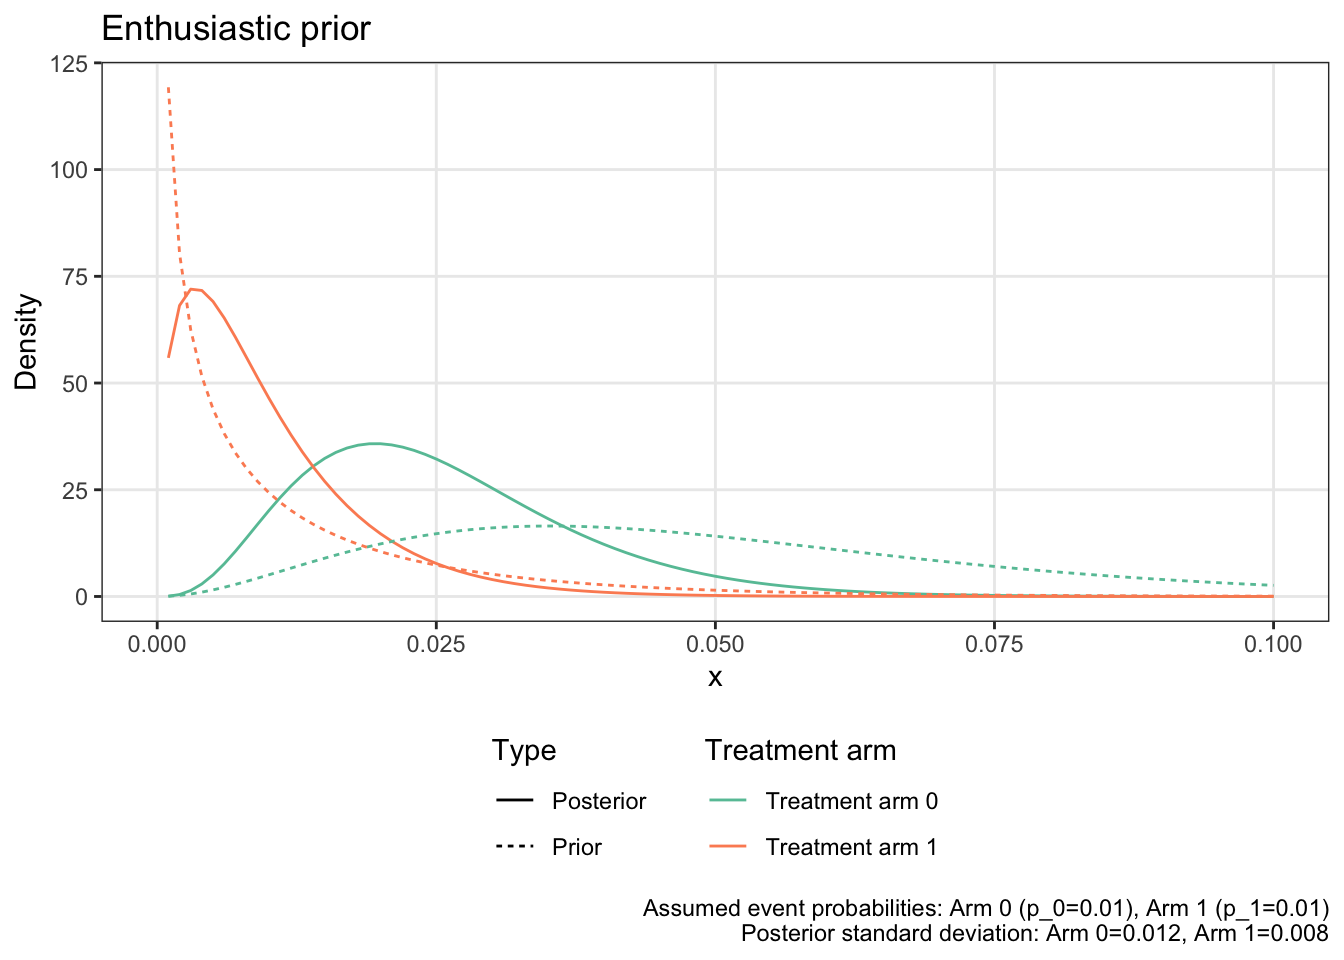
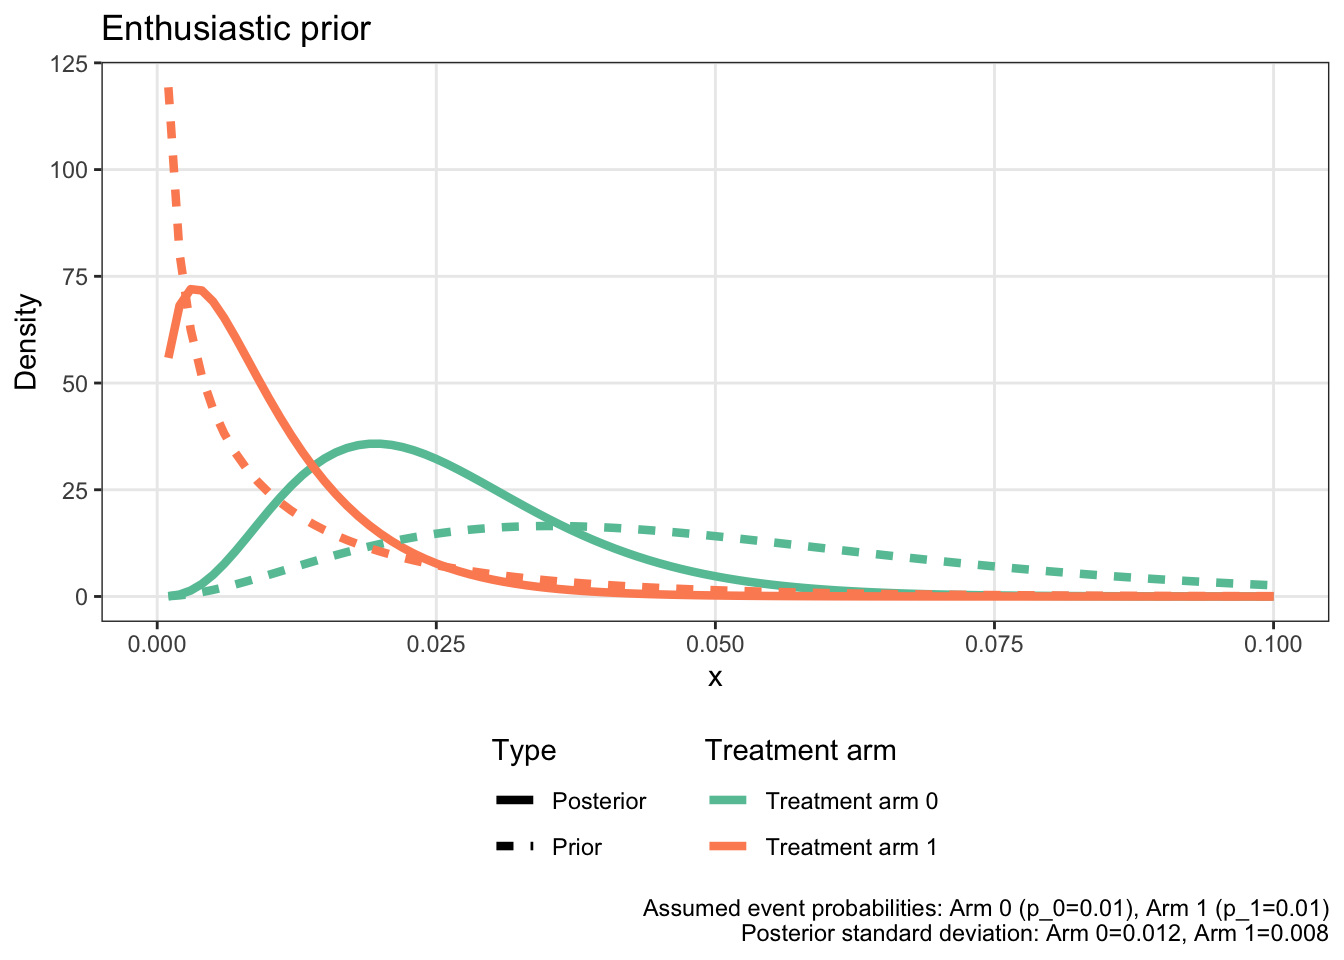
Changes

diff --git a/docs/01-NI.html b/docs/01-NI.html
@@ -1647,7 +1647,7 @@ p_i|\pi_i \sim Beta\left(a_i+\sum_{k\leq n_i}Y_{i,k},b_i+n_i-\sum_{k\leq n_i}Y_{
 <span id="cb30-24"><a href="#cb30-24" aria-hidden="true" tabindex="-1"></a>    T, <span class="st">"Treatment arm 0"</span>, <span class="st">"Treatment arm 1"</span>)</span>
 <span id="cb30-25"><a href="#cb30-25" aria-hidden="true" tabindex="-1"></a></span>
 <span id="cb30-26"><a href="#cb30-26" aria-hidden="true" tabindex="-1"></a><span class="fu">ggplot</span>(prior_plot_long, <span class="fu">aes</span>(<span class="at">x =</span> x, <span class="at">y =</span> value, <span class="at">linetype =</span> type, <span class="at">colour =</span> group)) <span class="sc">+</span></span>
-<span id="cb30-27"><a href="#cb30-27" aria-hidden="true" tabindex="-1"></a>    <span class="fu">geom_line</span>() <span class="sc">+</span> <span class="fu">theme_bw</span>() <span class="sc">+</span> <span class="fu">theme</span>(<span class="at">panel.grid.minor =</span> <span class="fu">element_blank</span>(),</span>
+<span id="cb30-27"><a href="#cb30-27" aria-hidden="true" tabindex="-1"></a>    <span class="fu">geom_line</span>(<span class="at">linewidth =</span> <span class="fl">1.5</span>) <span class="sc">+</span> <span class="fu">theme_bw</span>() <span class="sc">+</span> <span class="fu">theme</span>(<span class="at">panel.grid.minor =</span> <span class="fu">element_blank</span>(),</span>
 <span id="cb30-28"><a href="#cb30-28" aria-hidden="true" tabindex="-1"></a>    <span class="at">legend.position =</span> <span class="st">"bottom"</span>, <span class="at">legend.direction =</span> <span class="st">"vertical"</span>) <span class="sc">+</span> <span class="fu">scale_x_continuous</span>(<span class="at">limits =</span> <span class="fu">c</span>(<span class="dv">0</span>,</span>
 <span id="cb30-29"><a href="#cb30-29" aria-hidden="true" tabindex="-1"></a>    <span class="fl">0.1</span>)) <span class="sc">+</span> <span class="fu">ylab</span>(<span class="st">"Density"</span>) <span class="sc">+</span> <span class="fu">labs</span>(<span class="at">caption =</span> <span class="fu">str_glue</span>(<span class="st">"Assumed event probabilities: Arm 0 (p_0="</span>,</span>
 <span id="cb30-30"><a href="#cb30-30" aria-hidden="true" tabindex="-1"></a>    p_0, <span class="st">"), "</span>, <span class="st">"Arm 1 (p_1="</span>, p_1, <span class="st">")</span><span class="sc">\n</span><span class="st">Posterior standard deviation: Arm 0="</span>,</span>
@@ -1693,7 +1693,7 @@ p_i|\pi_i \sim Beta\left(a_i+\sum_{k\leq n_i}Y_{i,k},b_i+n_i-\sum_{k\leq n_i}Y_{
 <span id="cb31-24"><a href="#cb31-24" aria-hidden="true" tabindex="-1"></a>    T, <span class="st">"Treatment arm 0"</span>, <span class="st">"Treatment arm 1"</span>)</span>
 <span id="cb31-25"><a href="#cb31-25" aria-hidden="true" tabindex="-1"></a></span>
 <span id="cb31-26"><a href="#cb31-26" aria-hidden="true" tabindex="-1"></a><span class="fu">ggplot</span>(prior_plot_long, <span class="fu">aes</span>(<span class="at">x =</span> x, <span class="at">y =</span> value, <span class="at">linetype =</span> type, <span class="at">colour =</span> group)) <span class="sc">+</span></span>
-<span id="cb31-27"><a href="#cb31-27" aria-hidden="true" tabindex="-1"></a>    <span class="fu">geom_line</span>() <span class="sc">+</span> <span class="fu">theme_bw</span>() <span class="sc">+</span> <span class="fu">theme</span>(<span class="at">panel.grid.minor =</span> <span class="fu">element_blank</span>(),</span>
+<span id="cb31-27"><a href="#cb31-27" aria-hidden="true" tabindex="-1"></a>    <span class="fu">geom_line</span>(<span class="at">linewidth =</span> <span class="fl">1.5</span>) <span class="sc">+</span> <span class="fu">theme_bw</span>() <span class="sc">+</span> <span class="fu">theme</span>(<span class="at">panel.grid.minor =</span> <span class="fu">element_blank</span>(),</span>
 <span id="cb31-28"><a href="#cb31-28" aria-hidden="true" tabindex="-1"></a>    <span class="at">legend.position =</span> <span class="st">"bottom"</span>, <span class="at">legend.direction =</span> <span class="st">"vertical"</span>) <span class="sc">+</span> <span class="fu">scale_x_continuous</span>(<span class="at">limits =</span> <span class="fu">c</span>(<span class="dv">0</span>,</span>
 <span id="cb31-29"><a href="#cb31-29" aria-hidden="true" tabindex="-1"></a>    <span class="fl">0.1</span>)) <span class="sc">+</span> <span class="fu">ylab</span>(<span class="st">"Density"</span>) <span class="sc">+</span> <span class="fu">labs</span>(<span class="at">caption =</span> <span class="fu">str_glue</span>(<span class="st">"Expected event probabilities: Arm 0 (p_0="</span>,</span>
 <span id="cb31-30"><a href="#cb31-30" aria-hidden="true" tabindex="-1"></a>    p_0, <span class="st">"), "</span>, <span class="st">"Arm 1 (p_1="</span>, p_1, <span class="st">")</span><span class="sc">\n</span><span class="st">Posterior standard deviation: Arm 0="</span>,</span>
@@ -1739,7 +1739,7 @@ p_i|\pi_i \sim Beta\left(a_i+\sum_{k\leq n_i}Y_{i,k},b_i+n_i-\sum_{k\leq n_i}Y_{
 <span id="cb32-24"><a href="#cb32-24" aria-hidden="true" tabindex="-1"></a>    T, <span class="st">"Treatment arm 0"</span>, <span class="st">"Treatment arm 1"</span>)</span>
 <span id="cb32-25"><a href="#cb32-25" aria-hidden="true" tabindex="-1"></a></span>
 <span id="cb32-26"><a href="#cb32-26" aria-hidden="true" tabindex="-1"></a><span class="fu">ggplot</span>(prior_plot_long, <span class="fu">aes</span>(<span class="at">x =</span> x, <span class="at">y =</span> value, <span class="at">linetype =</span> type, <span class="at">colour =</span> group)) <span class="sc">+</span></span>
-<span id="cb32-27"><a href="#cb32-27" aria-hidden="true" tabindex="-1"></a>    <span class="fu">geom_line</span>() <span class="sc">+</span> <span class="fu">theme_bw</span>() <span class="sc">+</span> <span class="fu">theme</span>(<span class="at">panel.grid.minor =</span> <span class="fu">element_blank</span>(),</span>
+<span id="cb32-27"><a href="#cb32-27" aria-hidden="true" tabindex="-1"></a>    <span class="fu">geom_line</span>(<span class="at">linewidth =</span> <span class="fl">1.5</span>) <span class="sc">+</span> <span class="fu">theme_bw</span>() <span class="sc">+</span> <span class="fu">theme</span>(<span class="at">panel.grid.minor =</span> <span class="fu">element_blank</span>(),</span>
 <span id="cb32-28"><a href="#cb32-28" aria-hidden="true" tabindex="-1"></a>    <span class="at">legend.position =</span> <span class="st">"bottom"</span>, <span class="at">legend.direction =</span> <span class="st">"vertical"</span>) <span class="sc">+</span> <span class="fu">scale_x_continuous</span>(<span class="at">limits =</span> <span class="fu">c</span>(<span class="dv">0</span>,</span>
 <span id="cb32-29"><a href="#cb32-29" aria-hidden="true" tabindex="-1"></a>    <span class="fl">0.1</span>)) <span class="sc">+</span> <span class="fu">ylab</span>(<span class="st">"Density"</span>) <span class="sc">+</span> <span class="fu">labs</span>(<span class="at">caption =</span> <span class="fu">str_glue</span>(<span class="st">"Assumed event probabilities: Arm 0 (p_0="</span>,</span>
 <span id="cb32-30"><a href="#cb32-30" aria-hidden="true" tabindex="-1"></a>    p_0, <span class="st">"), "</span>, <span class="st">"Arm 1 (p_1="</span>, p_1, <span class="st">")</span><span class="sc">\n</span><span class="st">Posterior standard deviation: Arm 0="</span>,</span>
@@ -1783,7 +1783,7 @@ p_i|\pi_i \sim Beta\left(a_i+\sum_{k\leq n_i}Y_{i,k},b_i+n_i-\sum_{k\leq n_i}Y_{
 <span id="cb33-22"><a href="#cb33-22" aria-hidden="true" tabindex="-1"></a>    T, <span class="st">"Treatment arm 0"</span>, <span class="st">"Treatment arm 1"</span>)</span>
 <span id="cb33-23"><a href="#cb33-23" aria-hidden="true" tabindex="-1"></a></span>
 <span id="cb33-24"><a href="#cb33-24" aria-hidden="true" tabindex="-1"></a><span class="fu">ggplot</span>(prior_plot_long, <span class="fu">aes</span>(<span class="at">x =</span> x, <span class="at">y =</span> value, <span class="at">linetype =</span> type, <span class="at">colour =</span> group)) <span class="sc">+</span></span>
-<span id="cb33-25"><a href="#cb33-25" aria-hidden="true" tabindex="-1"></a>    <span class="fu">geom_line</span>() <span class="sc">+</span> <span class="fu">theme_bw</span>() <span class="sc">+</span> <span class="fu">theme</span>(<span class="at">panel.grid.minor =</span> <span class="fu">element_blank</span>(),</span>
+<span id="cb33-25"><a href="#cb33-25" aria-hidden="true" tabindex="-1"></a>    <span class="fu">geom_line</span>(<span class="at">linewidth =</span> <span class="fl">1.5</span>) <span class="sc">+</span> <span class="fu">theme_bw</span>() <span class="sc">+</span> <span class="fu">theme</span>(<span class="at">panel.grid.minor =</span> <span class="fu">element_blank</span>(),</span>
 <span id="cb33-26"><a href="#cb33-26" aria-hidden="true" tabindex="-1"></a>    <span class="at">legend.position =</span> <span class="st">"bottom"</span>, <span class="at">legend.direction =</span> <span class="st">"vertical"</span>) <span class="sc">+</span> <span class="fu">scale_x_continuous</span>(<span class="at">limits =</span> <span class="fu">c</span>(<span class="dv">0</span>,</span>
 <span id="cb33-27"><a href="#cb33-27" aria-hidden="true" tabindex="-1"></a>    <span class="fl">0.1</span>)) <span class="sc">+</span> <span class="fu">ylab</span>(<span class="st">"Density"</span>) <span class="sc">+</span> <span class="fu">labs</span>(<span class="at">caption =</span> <span class="fu">str_glue</span>(<span class="st">"Assumed event probabilities: Arm 0 (p_0="</span>,</span>
 <span id="cb33-28"><a href="#cb33-28" aria-hidden="true" tabindex="-1"></a>    p_0, <span class="st">"), "</span>, <span class="st">"Arm 1 (p_1="</span>, p_1, <span class="st">")</span><span class="sc">\n</span><span class="st">Posterior standard deviation: Arm 0="</span>,</span>
